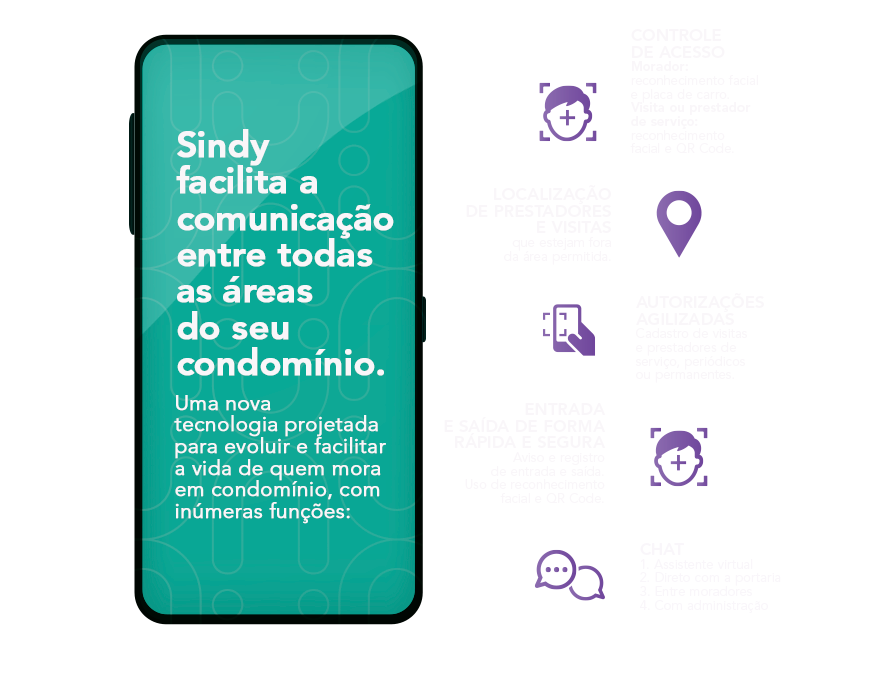
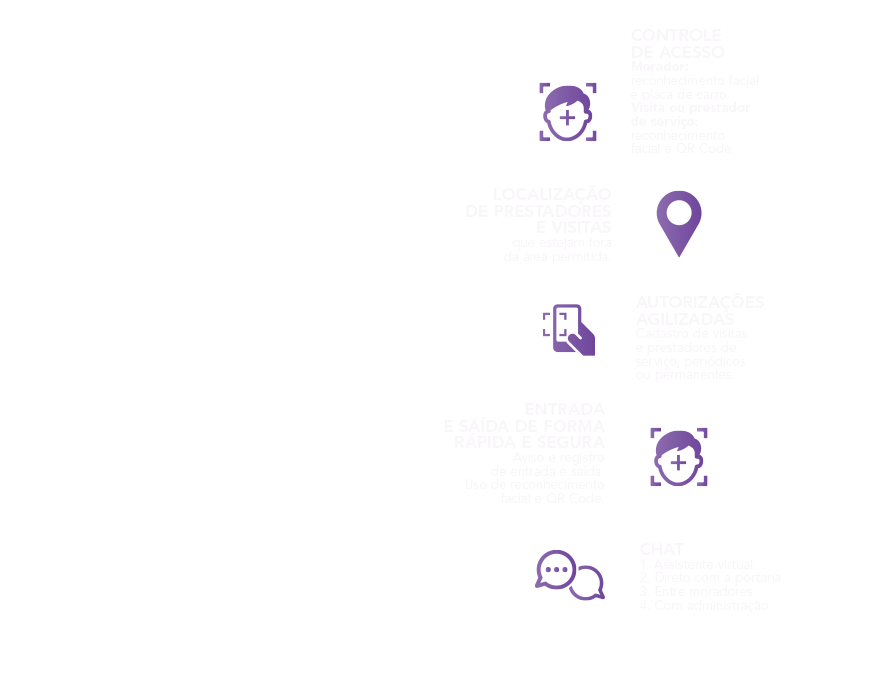
alinhamento texto celular

Changed region(s): [[0.1226, 0.0307, 0.4904, 0.9224]]

diff --git a/assets/styles/sobre.css b/assets/styles/sobre.css
@@ -19,7 +19,7 @@
   .col-celular-sobre{
       display: flex;
     justify-items:center;
-      background-image: url(../../images/sobre/cel-sobre-teste.png);
+      background-image: url(../../images/sobre/cel-sobre.png);
       background-size: contain;
     background-repeat: no-repeat;
     min-height: 100%;
@@ -56,28 +56,29 @@
     padding-top: unset;
     padding-bottom: 3em;
     }
+
   .col-main-text {
     font-family: AvenirLTSHeavy;
     text-align: left;
-    font-size: 2.7em;
+    font-size: calc(1.3em + 1vw);
     line-height: 1;
     color: #fff;
-    margin-left: 1em;
-margin-top: 2em;
+    margin-left: calc(35px + 1vw);
+    margin-top: calc(80px + 1vw);
   }
 
   .col-subtitle-text {
     font-family: AvenirLTSHeavy;
     text-align: left;
-    font-size: 1.3em;
+    font-size: calc(0.7em + 0.5vw);
     line-height: 1.2;
     color: #fff;
     width: 14em;
-padding-left: 2.2em;
+    padding-left: calc(50px + 0.5vw);
 }
   
   
-  @media (max-width: 991.98px) { 
+  @media (min-width: 768px) and (max-width: 991.98px) { 
     .main-text-wrap {
       display: flex;
       justify-content: flex-start;
@@ -94,7 +95,7 @@ padding-left: 2.2em;
       
       
       .col-main-text {
-        font-size: 2.5em;
+        font-size: calc(8px + 2vw);
       }
 
 /* sobre.css | http://localhost:8080/assets/styles/sobre.css */
@@ -253,7 +254,7 @@ padding-left: 2.2em;
           padding-top: 0.5em;
       }
     }
-    @media (max-width: 1199.98px) {
+    @media (min-width: 992px) and (max-width: 1199.98px) {
         .main-text-1 {
           width: 71%;
           padding-top: 0em;
@@ -261,7 +262,7 @@ padding-left: 2.2em;
         }
       
       .col-main-text {
-        font-size: 2.5em;
+        font-size: calc(1.5em + 0.5vw);
       }
       .desk-sobre-icon-wrap {
         /* min-width: 26em; */
